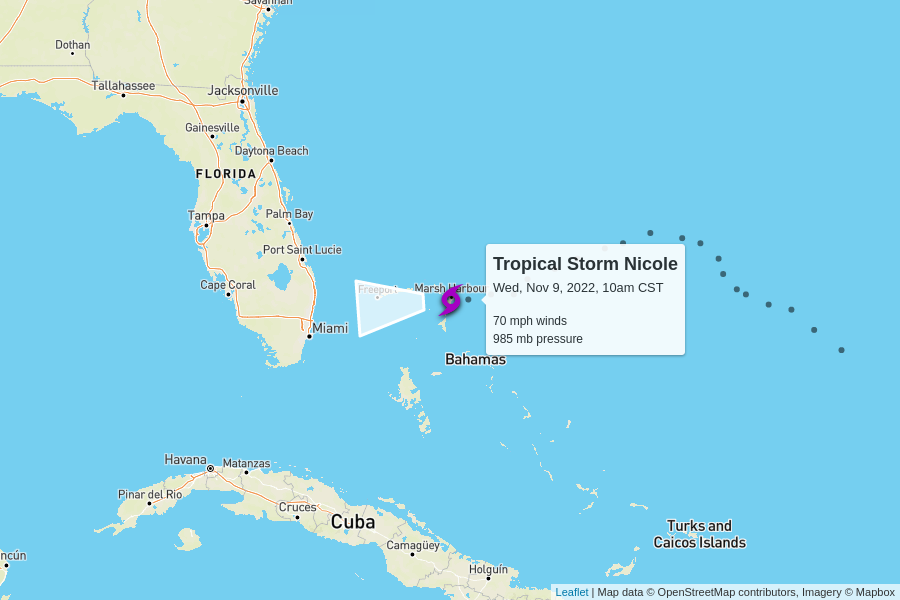
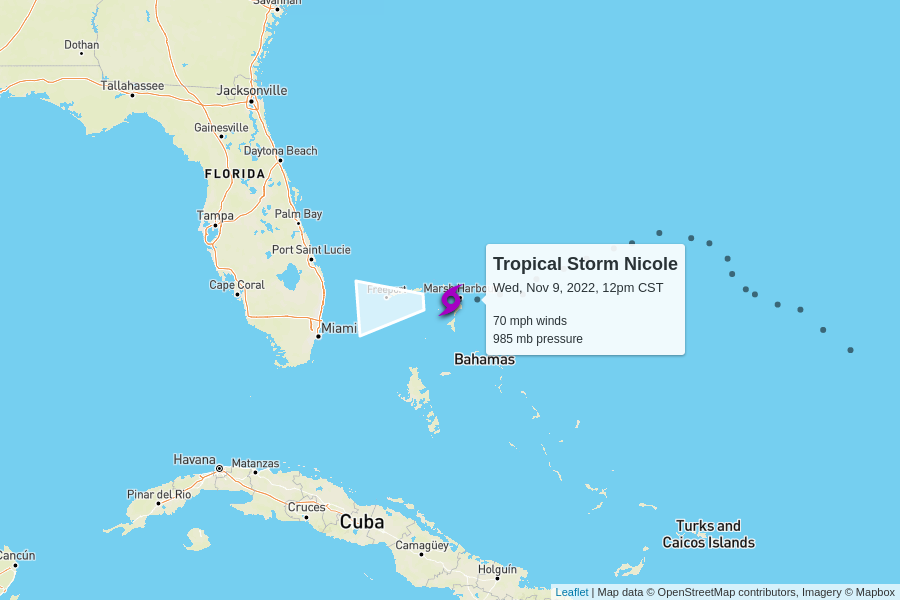
automatic update

diff --git a/docs/index.html b/docs/index.html
@@ -100,7 +100,7 @@
         <td colspan="6" class="storm category-0" >
           <h2>
             Tropical Storm Nicole
-            <p class="updated">last updated <span data-time>2022-11-09T16:55:00.000Z</span></p>
+            <p class="updated">last updated <span data-time>2022-11-09T18:00:00.000Z</span></p>
           </h2>
         </td>
       </tr>
